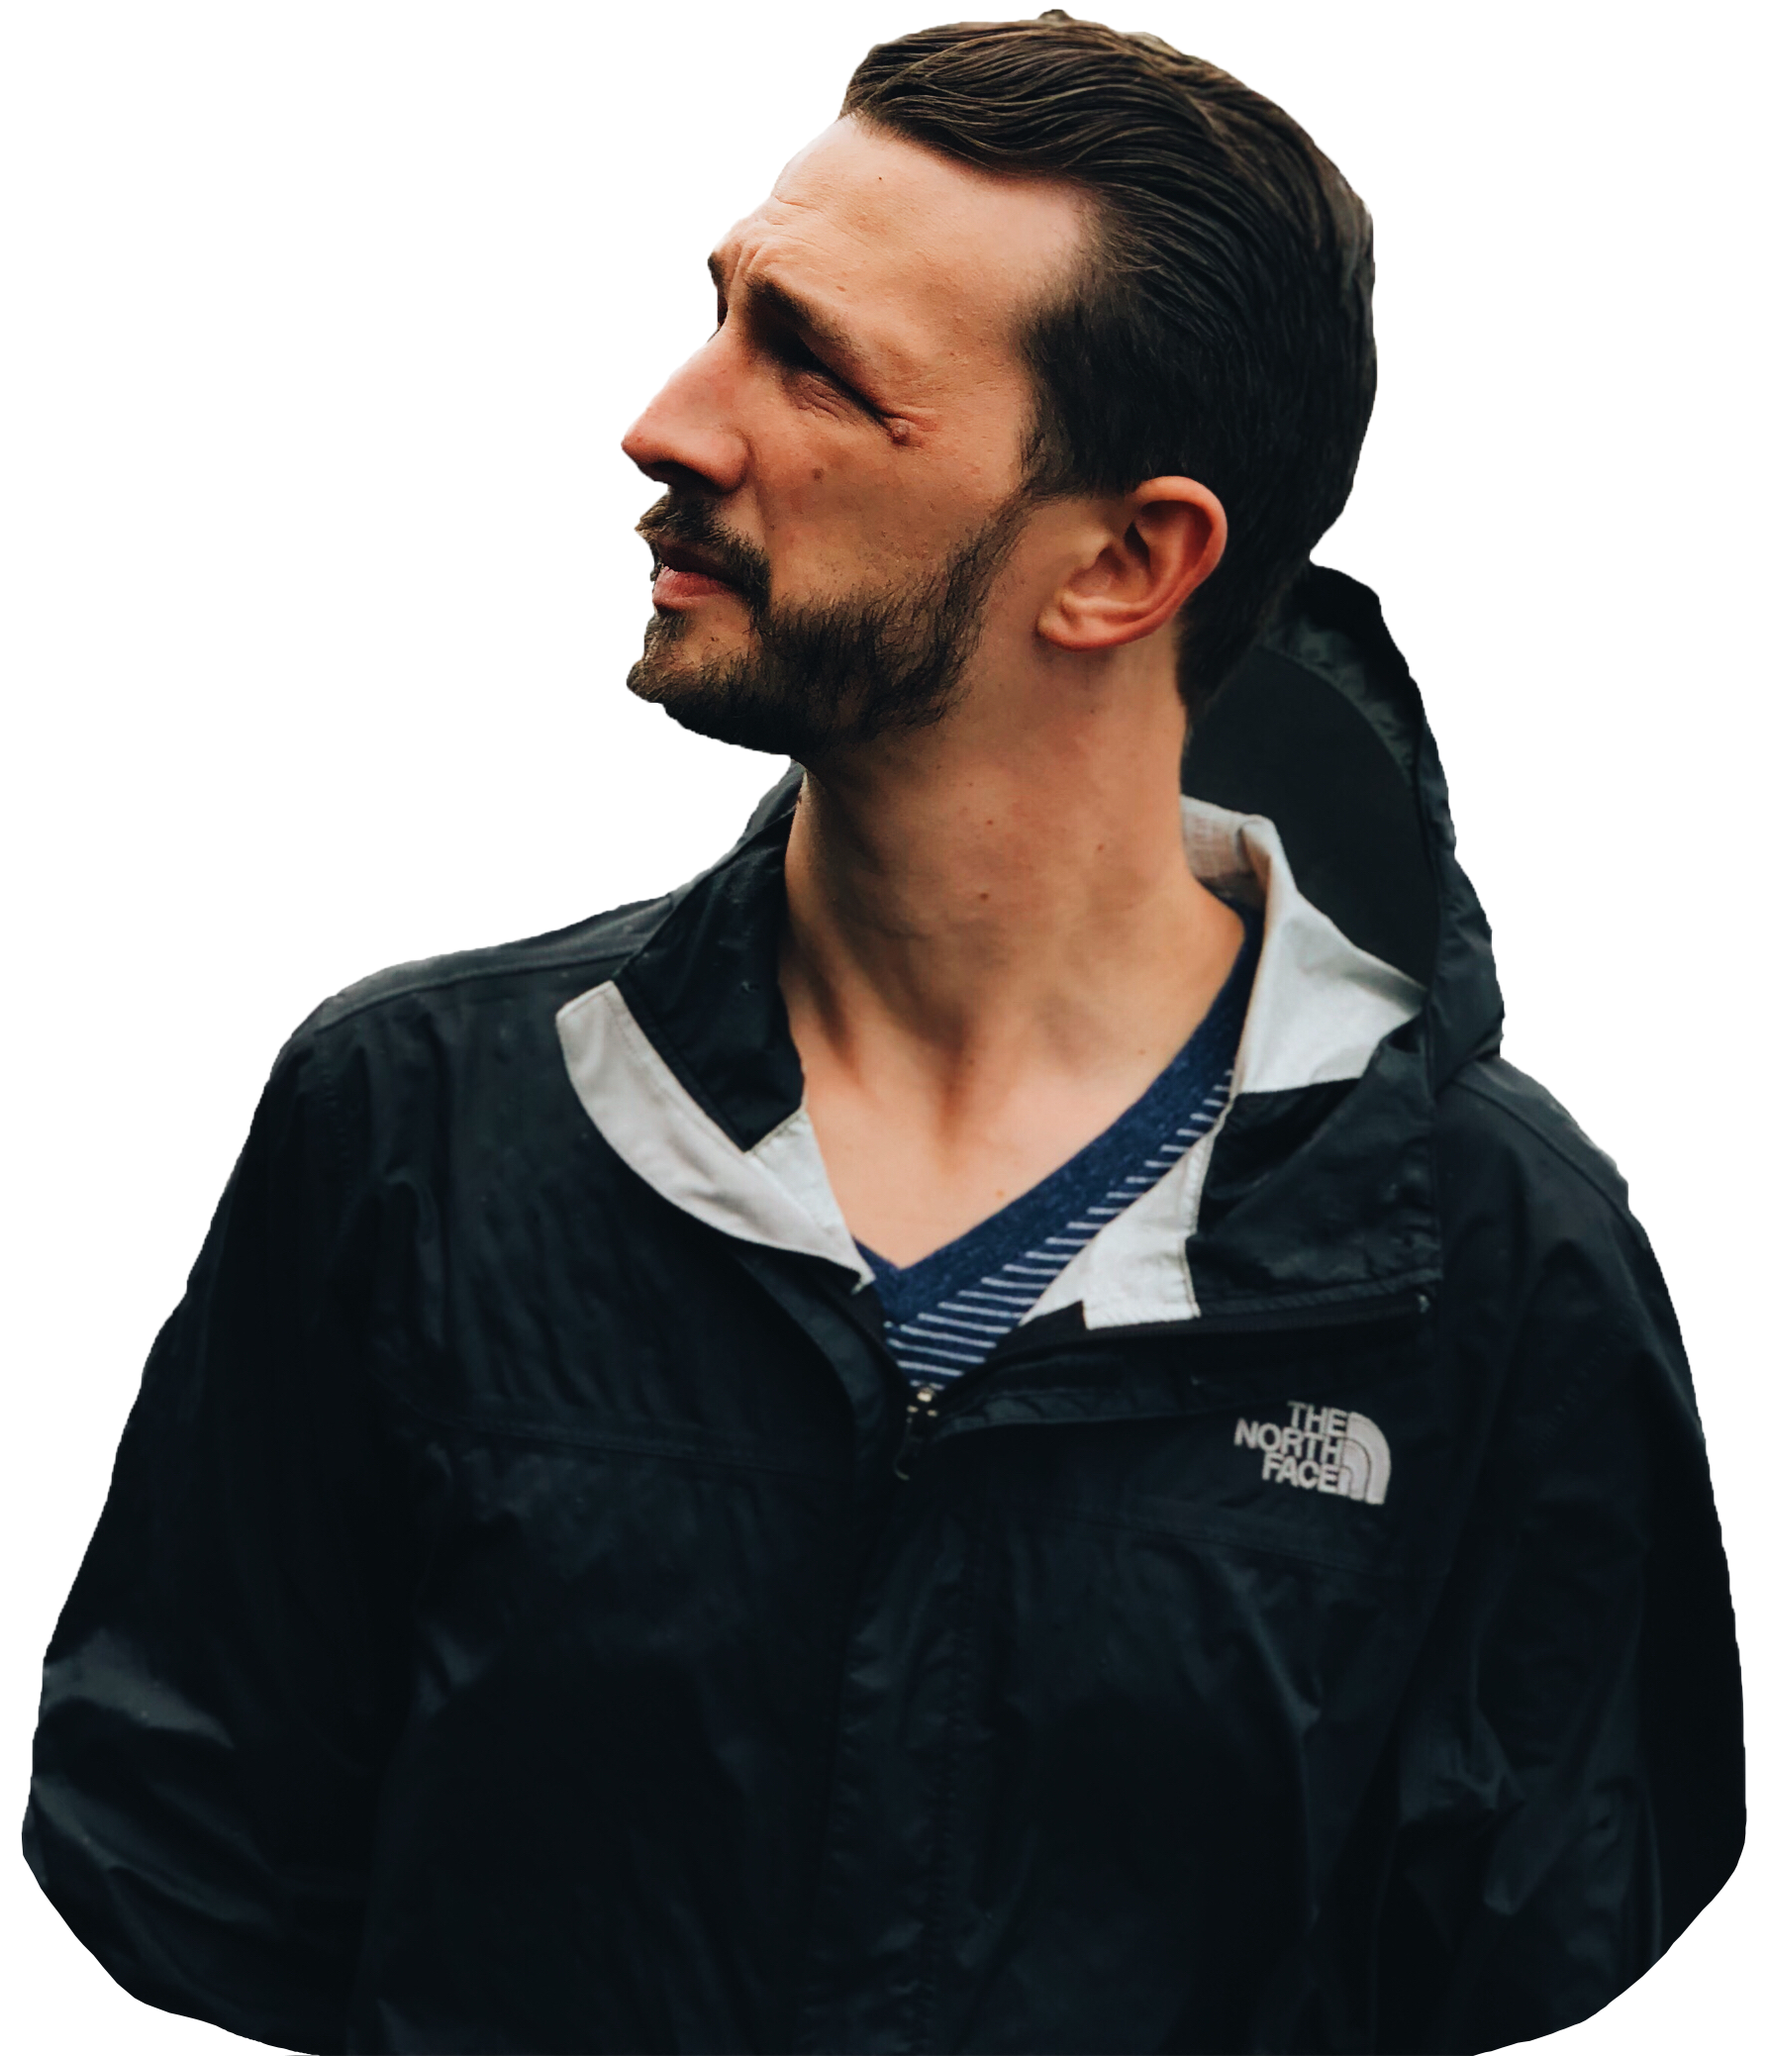
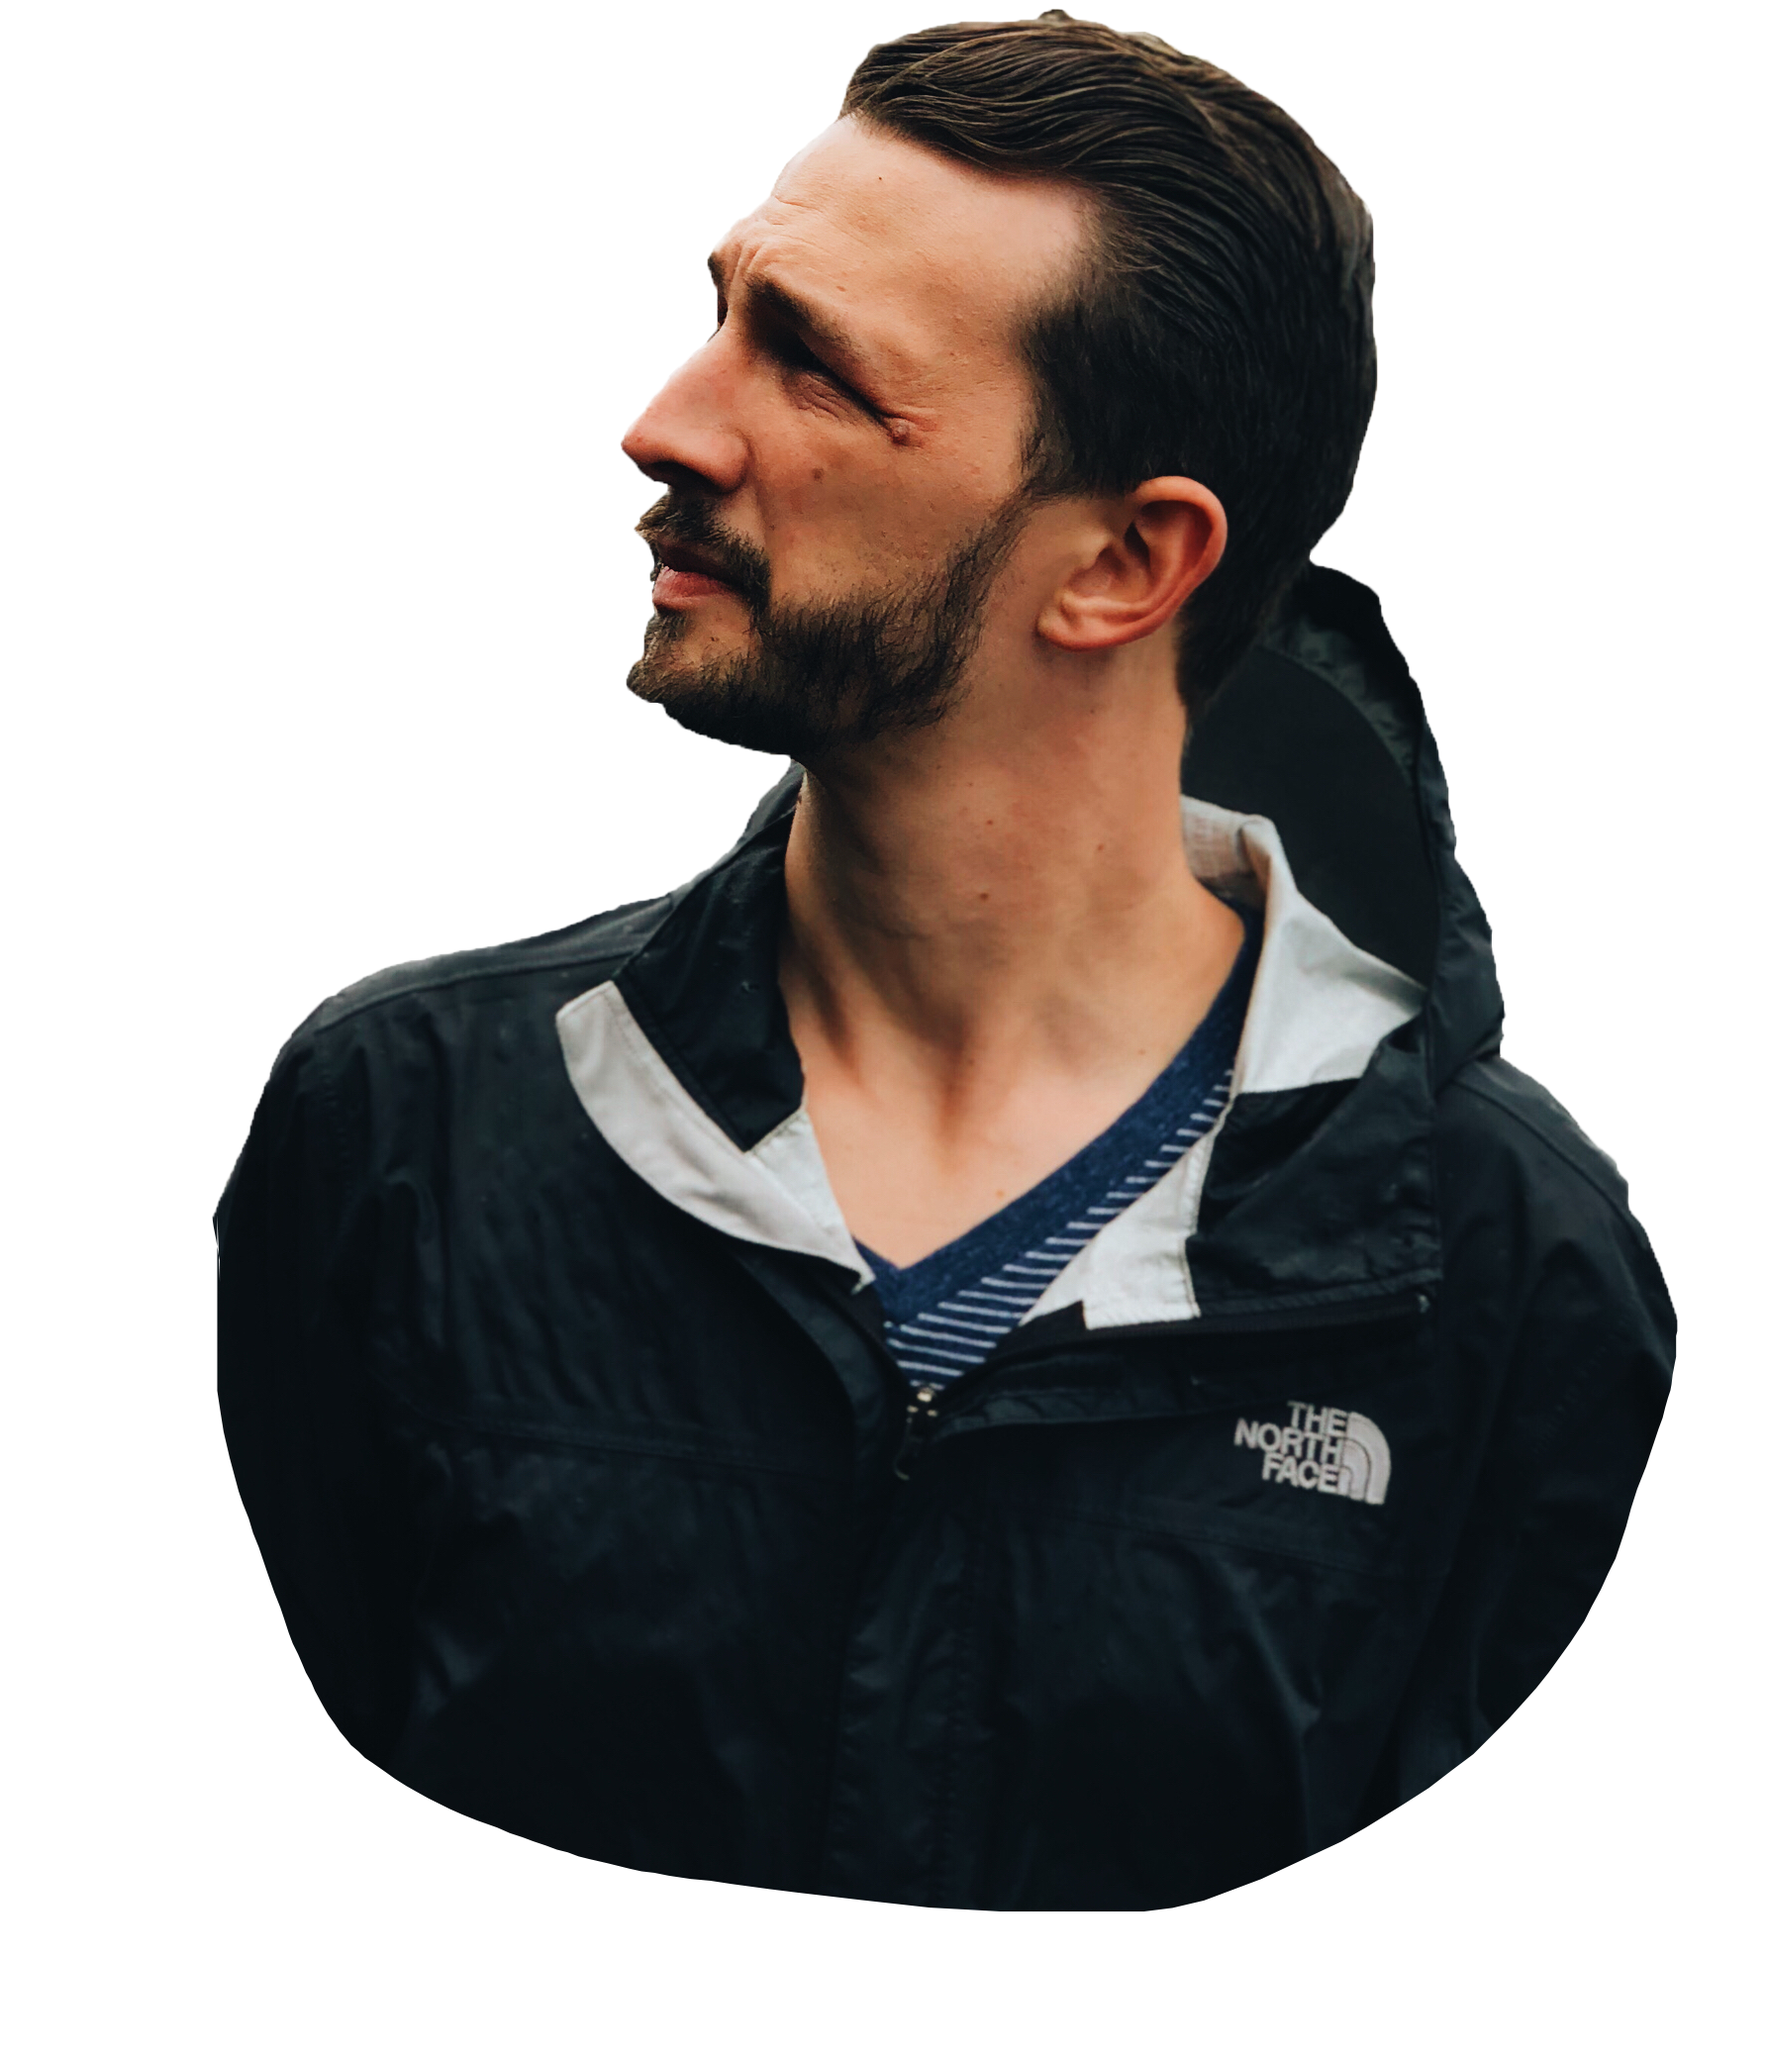
really simple me background build goin but I am so unhappy with it lol

Changed region(s): [[0.0, 0.5855, 1.0, 1.0]]

diff --git a/react_portfolio/src/index.css b/react_portfolio/src/index.css
@@ -2,26 +2,26 @@ html{
   padding: 0;
   min-width: 100%;
   min-height: 100%;
-  /* display: block;
-  position: absolute; */
 
-  background: #51cdc8
+  display: block;
+  position: absolute;
+
+
 }
 
-/* achieves background img transparency */
-/* html::after {
+html:after {
   content: '';
-  background: url('./images/me.png') no-repeat fixed;
-  background-size: 700px 850px;
-  background-position: 0px -750px;
-  opacity: 1;
+  background: url('./images/me.png') no-repeat;
+  background-size: 650px 750px;
+  background-position: 350px 0;
+  opacity: .9;
   top: 0;
   left: 0;
   right: 0;
   bottom: 0;
   z-index: -5;
   position: absolute;
-} */
+}
 
 body {
   height: 100%;

diff --git a/react_portfolio/src/App.js b/react_portfolio/src/App.js
@@ -25,13 +25,11 @@ function App() {
           <Route path='/about' exact render={routerProps => <About {...routerProps}/> } />
           <Route path='/resume' exact render={routerProps => <Resume {...routerProps}/> } />
         </Col>  
-      {/* </Row> */}
-      {/* <Row className='photo'> */}
-        <Col className='photo'>
+        {/* <Col className='photo'>
           <h3 className='instaHandle'>
             Photography by <a href='http://www.instagram.com/loganleopold' className='instaLink'>Logan Leopold</a>
           </h3>
-        </Col>
+        </Col> */}
       </Row>
     </Container>
   );

diff --git a/react_portfolio/src/App.css b/react_portfolio/src/App.css
@@ -99,13 +99,10 @@ header {
   min-width: 100%;
   min-height: 100%;
 
-  content: '';
-  background: url('./images/me.png') no-repeat;
-  background-size: 350px 450px;
-  background-position: 50vw 0px;
+  background: transparent;
 }
 
-.instaHandle {
+/* .instaHandle {
   height: 4vh;
   position: fixed;
   bottom: 50px;
@@ -138,4 +135,4 @@ header {
   align-items: flex-end;
 
   margin: 10vmin 0;
-}
+} */

diff --git a/react_portfolio/src/About.js b/react_portfolio/src/About.js
@@ -1,9 +1,10 @@
 import React, { Component } from 'react';
+import './About.css'
 
 class About extends Component {
     render() {
         return (
-            <div>
+            <div className='about'>
                 This is going to be a short bio about me.
             </div>
         );

diff --git a/react_portfolio/src/Resume.js b/react_portfolio/src/Resume.js
@@ -1,9 +1,10 @@
 import React, { Component } from 'react';
+import './Resume.css'
 
 class Resume extends Component {
     render() {
         return (
-            <div>
+            <div className='resume'> 
                 This will show my resume for dl \m/
             </div>
         );

diff --git a/react_portfolio/src/Home.css b/react_portfolio/src/Home.css
@@ -11,5 +11,4 @@
     position: top;
     width: 500px;
     height: 600px;
-    /* z-index: -1; */
 }

diff --git a/react_portfolio/src/Resume.css b/react_portfolio/src/Resume.css
@@ -1,0 +1,3 @@
+.resume {
+    min-height: 250px;
+}

diff --git a/react_portfolio/src/About.css b/react_portfolio/src/About.css
@@ -1,0 +1,3 @@
+.about {
+    min-height: 250px;
+}
